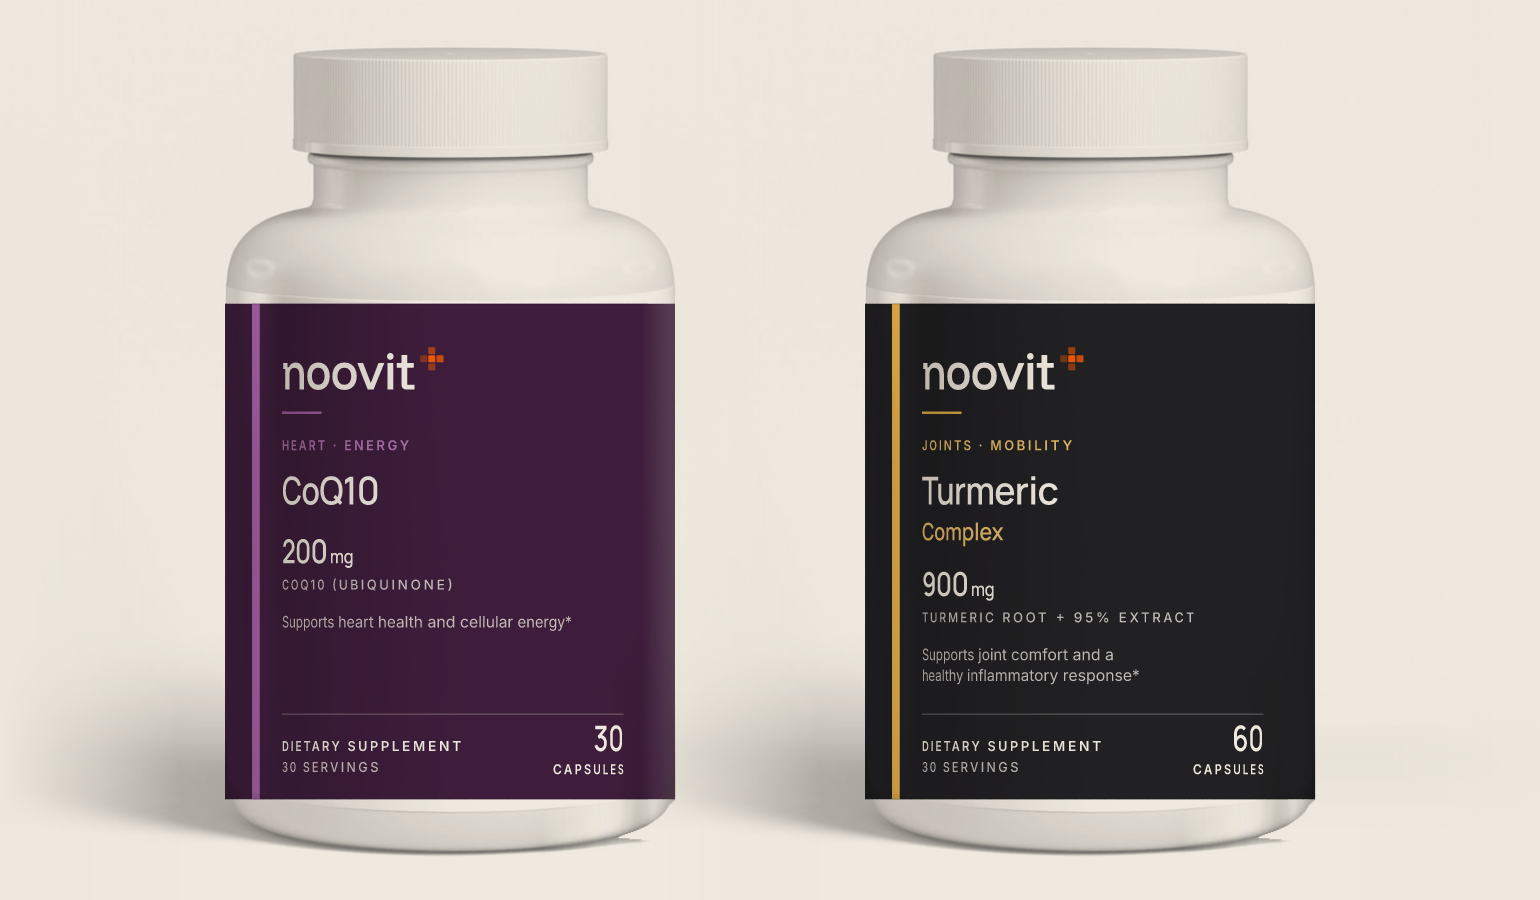
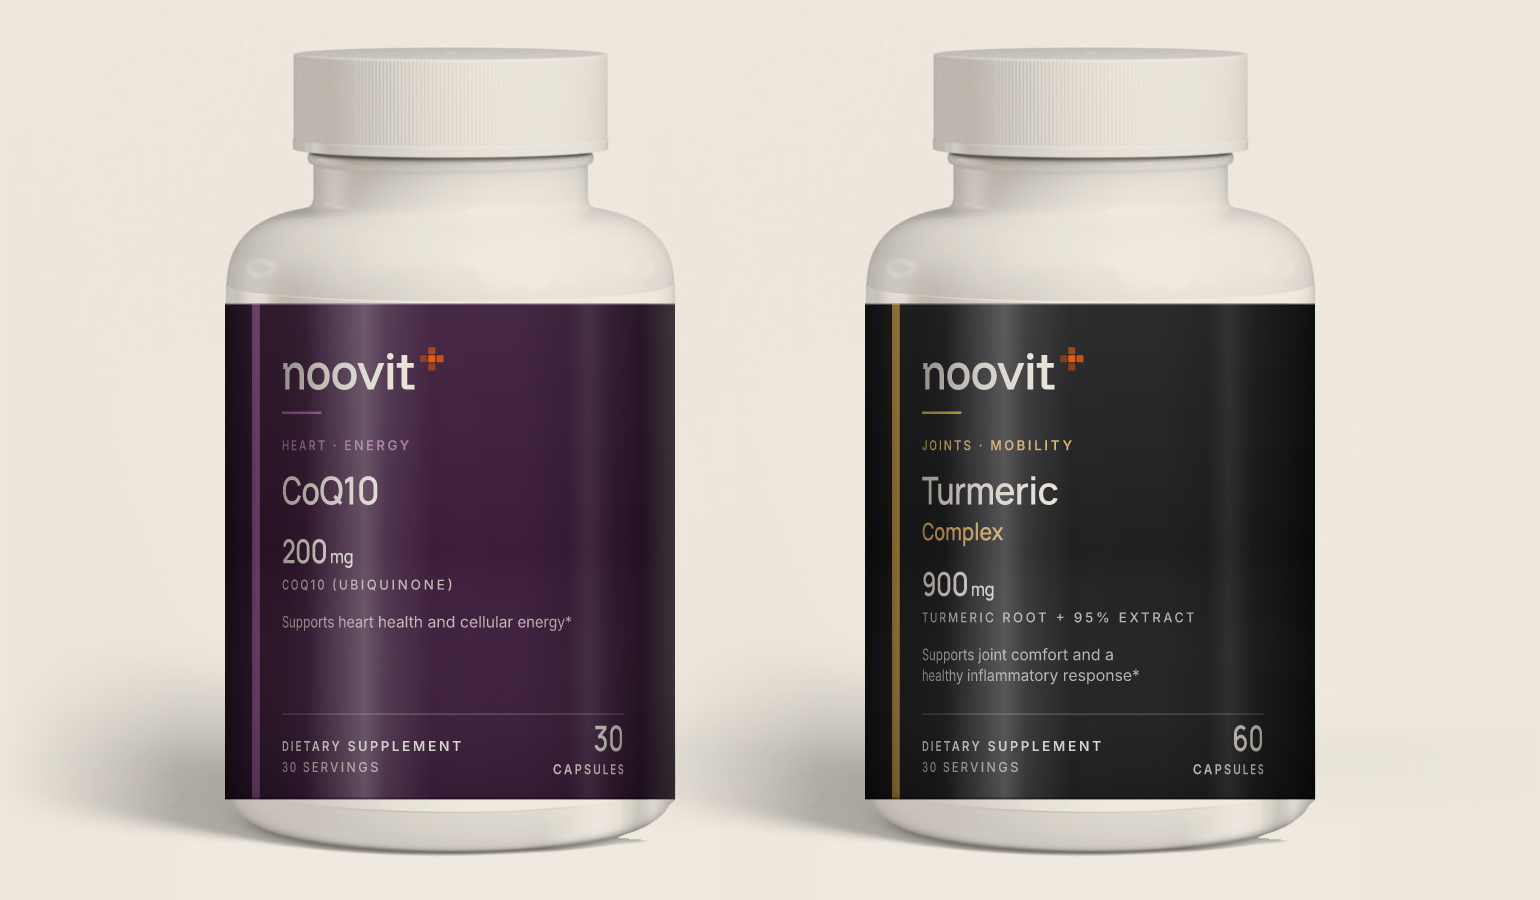
Photo mockups: studio lighting on the label (edge roll-off, specular band, matte grain)
Claude-Session: https://claude.ai/code/session_01AgHwmMXyw3TzvCrzNnVa8R

diff --git a/lib/labels/photo.ts b/lib/labels/photo.ts
@@ -36,6 +36,40 @@ const defaultArt: LabelArt = (p, ext) => `
       <rect x="${r(-ext)}" y="0" width="${r(FRONT.w + ext * 2)}" height="${FRONT.h}" fill="${labelPaper(p)}"/>
       ${frontLabel(p, 'print', 0)}`;
 
+// Studio lighting on the printed label (14 Nov): the photo's own shading barely shows through a dark label, so the
+// cylinder is lit here. Key light from the front-left: a soft specular band left of centre and a fainter one on the
+// right, the label turning away into shadow at both edges, a fine matte paper grain, a lit top lip and a shadow
+// line under the bottom edge.
+const X0 = CX - R;
+const LIGHT_DEFS = `
+    <linearGradient id="lt-roll" x1="${X0}" x2="${X0 + 2 * R}" gradientUnits="userSpaceOnUse">
+      <stop offset="0" stop-color="#000" stop-opacity="0.62"/><stop offset="0.07" stop-color="#000" stop-opacity="0.34"/>
+      <stop offset="0.2" stop-color="#000" stop-opacity="0.1"/><stop offset="0.36" stop-color="#000" stop-opacity="0"/>
+      <stop offset="0.66" stop-color="#000" stop-opacity="0.04"/><stop offset="0.86" stop-color="#000" stop-opacity="0.26"/>
+      <stop offset="1" stop-color="#000" stop-opacity="0.66"/>
+    </linearGradient>
+    <linearGradient id="lt-spec" x1="${X0}" x2="${X0 + 2 * R}" gradientUnits="userSpaceOnUse">
+      <stop offset="0.18" stop-color="#fff" stop-opacity="0"/><stop offset="0.27" stop-color="#fff" stop-opacity="0.16"/>
+      <stop offset="0.31" stop-color="#fff" stop-opacity="0.24"/><stop offset="0.36" stop-color="#fff" stop-opacity="0.1"/>
+      <stop offset="0.46" stop-color="#fff" stop-opacity="0"/><stop offset="0.76" stop-color="#fff" stop-opacity="0"/>
+      <stop offset="0.81" stop-color="#fff" stop-opacity="0.07"/><stop offset="0.86" stop-color="#fff" stop-opacity="0"/>
+    </linearGradient>
+    <linearGradient id="lt-v" x1="0" y1="${TOP}" x2="0" y2="${BOTTOM}" gradientUnits="userSpaceOnUse">
+      <stop offset="0" stop-color="#fff" stop-opacity="0.05"/><stop offset="0.5" stop-color="#fff" stop-opacity="0"/>
+      <stop offset="1" stop-color="#000" stop-opacity="0.12"/>
+    </linearGradient>
+    <filter id="lt-grain" x="0" y="0" width="100%" height="100%">
+      <feTurbulence type="fractalNoise" baseFrequency="0.9" numOctaves="2" seed="7"/>
+      <feColorMatrix values="0 0 0 0 0.5  0 0 0 0 0.5  0 0 0 0 0.5  0 0 0 0.9 0"/>
+    </filter>`;
+const lighting = () => `
+      <rect x="${X0}" y="${TOP}" width="${2 * R}" height="${BOTTOM - TOP}" filter="url(#lt-grain)" opacity="0.07" style="mix-blend-mode:overlay"/>
+      <rect x="${X0}" y="${TOP}" width="${2 * R}" height="${BOTTOM - TOP}" fill="url(#lt-v)"/>
+      <rect x="${X0}" y="${TOP}" width="${2 * R}" height="${BOTTOM - TOP}" fill="url(#lt-roll)"/>
+      <rect x="${X0}" y="${TOP}" width="${2 * R}" height="${BOTTOM - TOP}" fill="url(#lt-spec)" style="mix-blend-mode:screen"/>
+      <rect x="${X0}" y="${TOP}" width="${2 * R}" height="1.4" fill="#fff" opacity="0.22"/>
+      <rect x="${X0}" y="${BOTTOM - 2.2}" width="${2 * R}" height="2.2" fill="#000" opacity="0.28"/>`;
+
 // `backdrop`: the cream scene, plain white (feeds), or a hex tint (gallery images), multiplied under the photo.
 export function photoBottleSvg(p: Product, backdrop: 'scene' | 'white' | `#${string}` = 'scene', closeUp = false, artFn: LabelArt = defaultArt) {
   const photo = load();
@@ -66,6 +100,7 @@ export function photoBottleSvg(p: Product, backdrop: 'scene' | 'white' | `#${str
     ${art}
     ${clips.join('')}
     <clipPath id="band"><rect x="${CX - R}" y="${TOP}" width="${R * 2}" height="${BOTTOM - TOP}"/></clipPath>
+    ${LIGHT_DEFS}
   </defs>
   ${bg}
   <image href="${photo}" width="1024" height="1024"${blend}/>
@@ -76,6 +111,7 @@ export function photoBottleSvg(p: Product, backdrop: 'scene' | 'white' | `#${str
       <rect x="${CX - R}" y="${BOTTOM - 1.2}" width="${R * 2}" height="1.2" fill="#000" opacity="0.10"/>
       <image href="${photo}" width="1024" height="1024" style="mix-blend-mode:multiply"/>
       ${tint ? `<rect x="${CX - R}" y="${TOP}" width="${R * 2}" height="${BOTTOM - TOP}" fill="${tint}" style="mix-blend-mode:multiply"/>` : ''}
+      ${lighting()}
     </g>
   </g>
 </svg>`;

diff --git a/lib/labels/svg.ts b/lib/labels/svg.ts
@@ -15,7 +15,7 @@ import { LEGAL_NAME } from '@/lib/site';
 export type FontMode = 'web' | 'print';
 
 // Bump when the photo mockup (lib/labels/photo.ts) changes, so cached product image URLs refresh.
-export const MOCKUP_VERSION = 'photo-v12'; // v12 (14 Nov): elegant dark label
+export const MOCKUP_VERSION = 'photo-v13'; // v12 (14 Nov): elegant dark label; v13: studio lighting on the label
 
 const NAVY = '#14213d';
 const INK = '#4b5563';

diff --git a/docs/PROGRESS.md b/docs/PROGRESS.md
@@ -189,4 +189,5 @@ Status: **Have** · **Phase N** = planned (Phases 1–2 done Oct 2026) · **Tool
 - [x] 12 Nov (23): owner confirmed done: noovit.com is the primary domain (www redirects to it), Resend set up for noovit.com, inbox for hello@noovit.com.
 - [x] 14 Nov (24): medical reviewer brief and Upwork job post (`docs/REVIEWER_BRIEF.md`).
 - [x] 14 Nov (25): labels: V2 front is the default for all bottle and tub print labels (creatine tub converted); products without molecule/shape art get a bead-sphere fallback; "Made in the USA" removed from labels; other-ingredients wrap fixed; product images bumped to photo-v11.
+- [x] 14 Nov (27): photo mockups get studio lighting on the label (edge shadow, specular highlight, matte grain, lit top lip, bottom shadow) so the dark labels look printed, not pasted (`lib/labels/photo.ts`, MOCKUP_VERSION photo-v13).
 - [x] 14 Nov (26): new label "E2 dark" (owner's pick, Thorne-like minimal): deep product-colour wrap, bigger wordmark, smaller name, even spacing, white Facts/Info cards; CoQ10 → plum, Turmeric → saffron on charcoal with a 900 mg hero number. Wired into every print label, the creatine tub and the website photos; colour SQL for the live DB.
